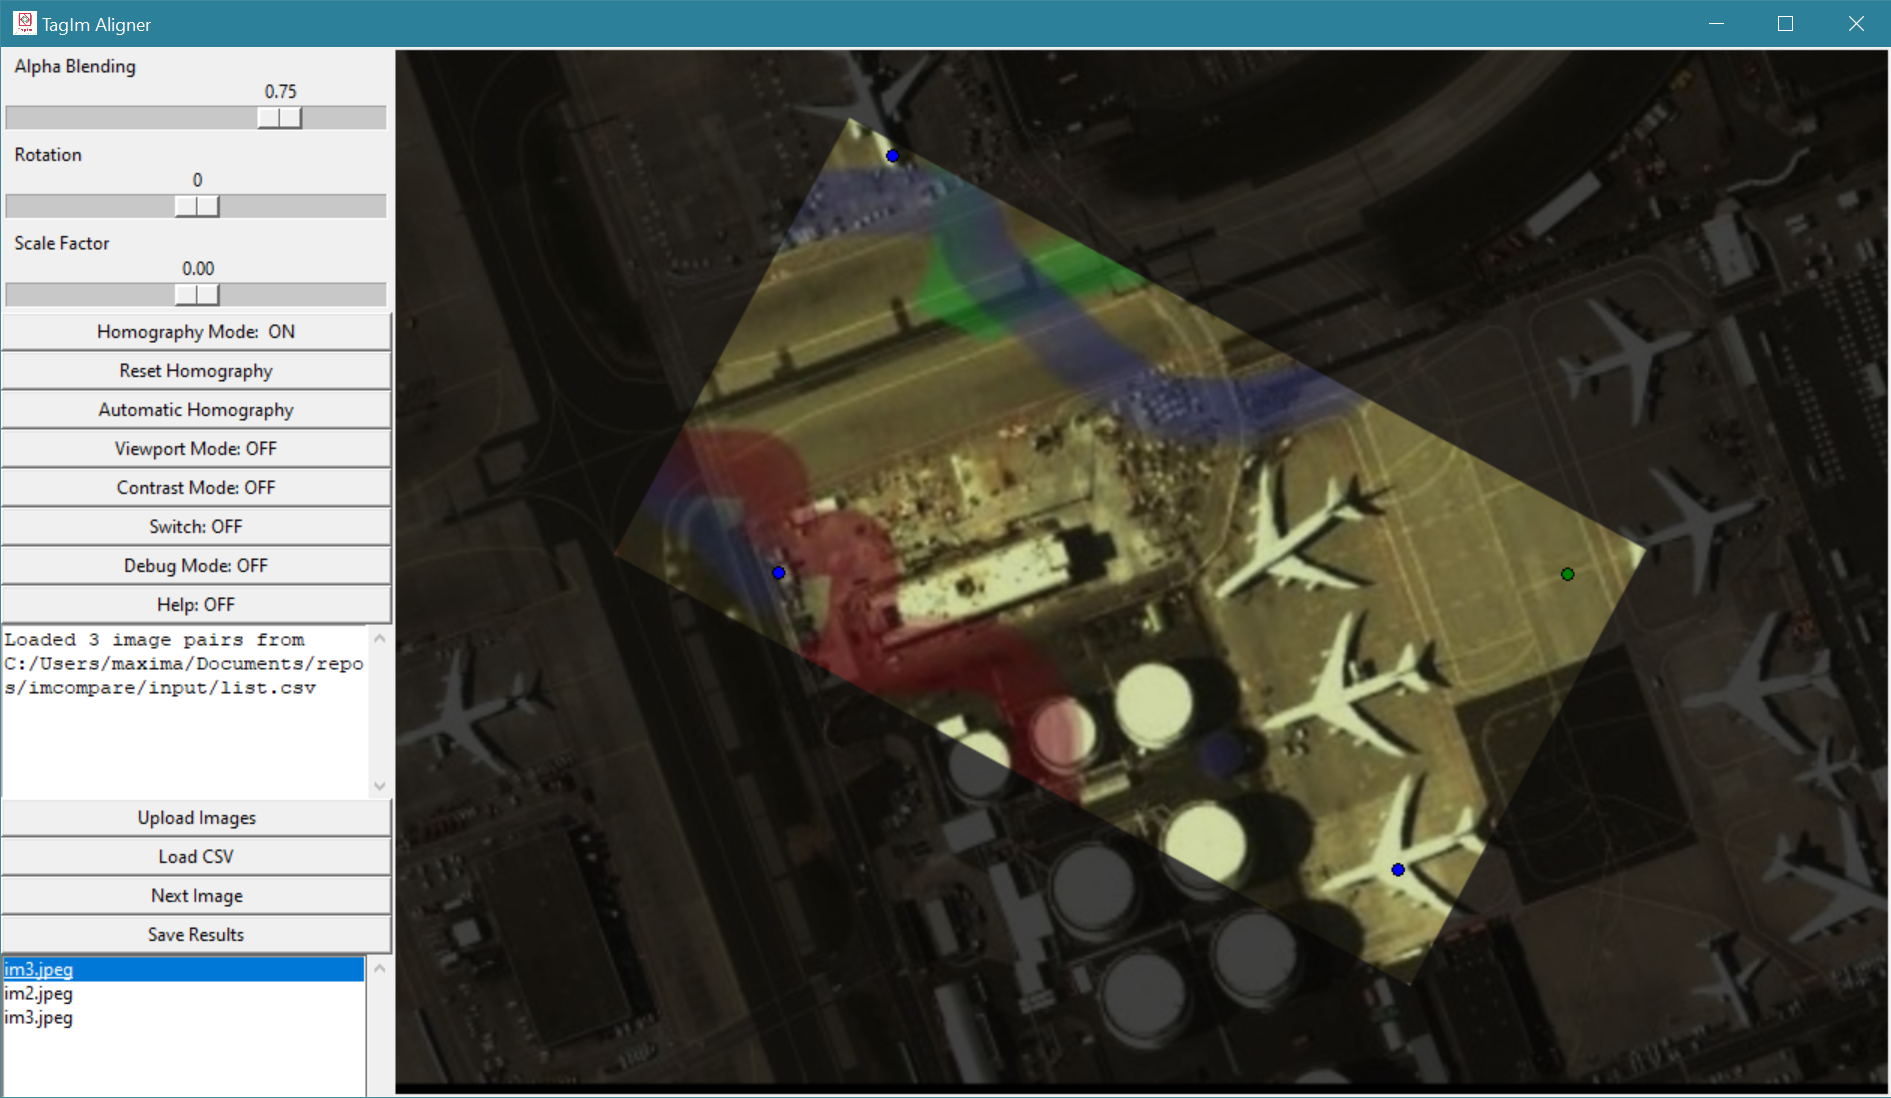
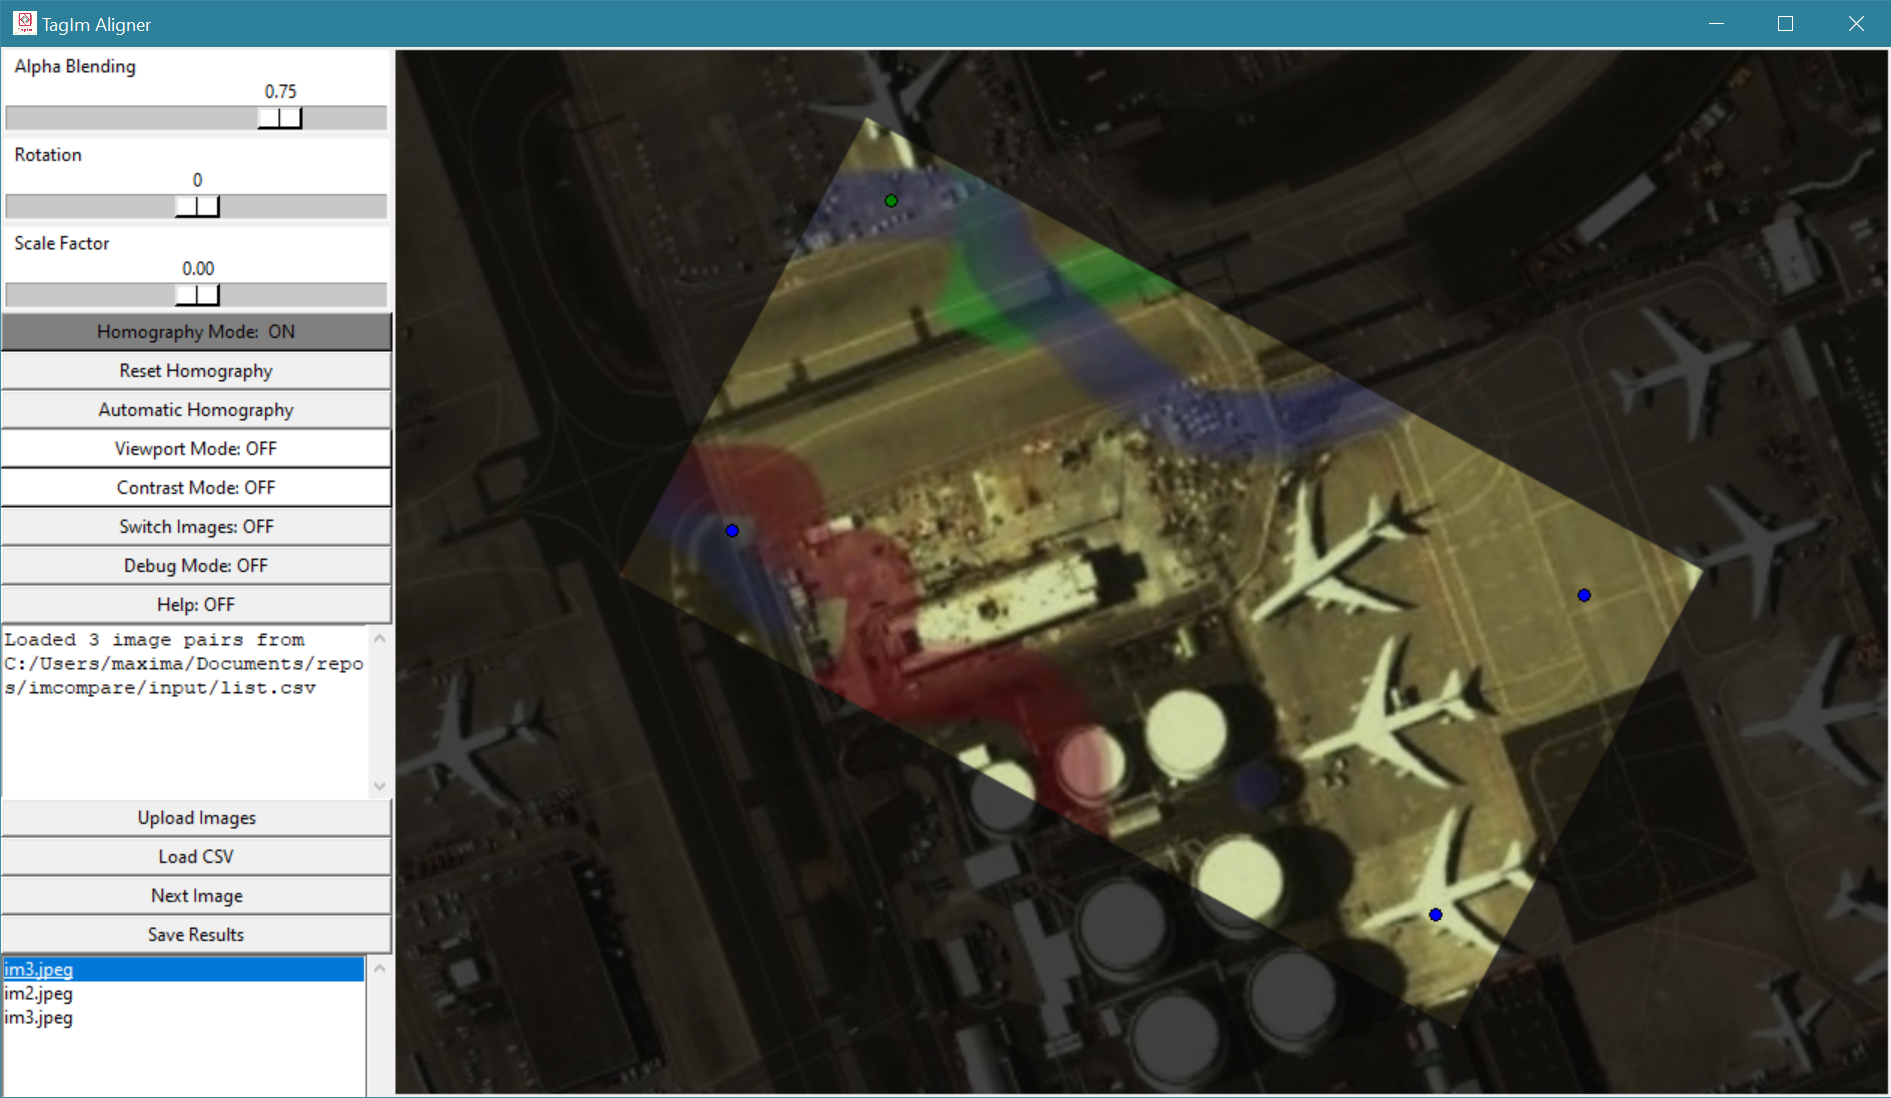
more fixes

diff --git a/main.py b/main.py
@@ -241,8 +241,9 @@ class DebugInfo:
         
         # Display all global variables
         app_vars = vars(self.app)
-        for var_name, var_value in app_vars.items():
-            if isinstance(var_value,np.ndarray):
+        image_vars = vars(self.app.images)
+        for var_name, var_value in {**app_vars, **image_vars}.items():
+            if isinstance(var_value,np.ndarray) or var_value == self.app.images:
                 continue
             label = tk.Label(self.debug_frame, text=f"{var_name}: {var_value}", bg='grey')
             label.pack(side="top", anchor="w", padx=10, pady=5)
@@ -259,13 +260,13 @@ class ButtonPanel:
         self.image_pairs = []
 
     def create_widgets(self):
-        self.alpha_slider = tk.Scale(self.frame, from_=0, to=1, resolution=0.01, orient=tk.HORIZONTAL, label="Alpha Blending", command=self.app.update_alpha)
+        self.alpha_slider = tk.Scale(self.frame, from_=0, to=1, resolution=0.01, orient=tk.HORIZONTAL, label="Alpha Blending", command=self.app.update_alpha,bg='white')
         self.alpha_slider.set(self.app.alpha)
         
-        self.rotation_slider = tk.Scale(self.frame, from_=-180, to=180, resolution=1, orient=tk.HORIZONTAL, label="Rotation", command=self.app.update_rotation)
+        self.rotation_slider = tk.Scale(self.frame, from_=-180, to=180, resolution=1, orient=tk.HORIZONTAL, label="Rotation", command=self.app.update_rotation,bg='white')
         self.rotation_slider.set(self.app.images.rotation)
 
-        self.scale_slider = tk.Scale(self.frame, from_=-1, to=1, resolution=0.01, orient=tk.HORIZONTAL, label="Scale Factor", command=lambda x: self.app.update_scale(np.power(10,float(x))))
+        self.scale_slider = tk.Scale(self.frame, from_=-1, to=1, resolution=0.01, orient=tk.HORIZONTAL, label="Scale Factor", command=lambda x: self.app.update_scale(np.power(10,float(x))),bg='white')
         self.scale_slider.set(np.log10(self.app.images.scale))
 
         self.homography_button = tk.Button(self.frame, text="Homography Mode: OFF", command=self.app.toggle_homography_mode)
@@ -273,7 +274,7 @@ class ButtonPanel:
         self.homography_calculate_button = tk.Button(self.frame, text="Automatic Homography", command=self.app.run_matching)
         self.viewport_button = tk.Button(self.frame, text="Viewport Mode: OFF", command=self.app.toggle_viewport_mode)
         self.contrast_button = tk.Button(self.frame, text="Contrast Mode: OFF", command=self.app.toggle_contrast_mode)
-        self.switch_button = tk.Button(self.frame, text="Switch: OFF", command=self.app.toggle_switch)
+        self.switch_button = tk.Button(self.frame, text="Switch Images: OFF", command=self.app.toggle_switch)
         self.debug_button = tk.Button(self.frame, text="Debug Mode: OFF", command=self.app.toggle_debug_mode)
         self.help_button = tk.Button(self.frame, text="Help: OFF", command=self.app.toggle_help_mode)
         self.help_frame = tk.Frame(self.frame)
@@ -488,14 +489,10 @@ class ImageAlignerApp:
         self.images.scale = np.clip(float(val),0.1,10)
         self.button_panel.scale_slider.set(np.log10(self.images.scale))
         self.render()
-
-    def toggle_debug_mode(self):
-        self.debug_mode = not self.debug_mode
-        self.button_panel.debug_button.config(text="Debug Mode:  ON" if self.debug_mode else "Debug Mode: OFF")
         
     def toggle_help_mode(self):
         self.help_mode = not self.help_mode
-        self.button_panel.help_button.config(text="Help:  ON" if self.help_mode else "Help: OFF")
+        self.button_panel.help_button.config(text="Help:  ON" if self.help_mode else "Help: OFF", bg=('grey' if self.help_mode else 'white'))
         descriptions = [('r', "Rotate by 90 degrees"),
                         ('+', "Zoom in 10%"),
                         ('-', "Zoom out 10%"),
@@ -519,17 +516,17 @@ class ImageAlignerApp:
         self.homography_mode = not self.homography_mode
         if len(self.images.anchors) == 0:
             self.images.reset_anchors()
-        self.button_panel.homography_button.config(text="Homography Mode:  ON" if self.homography_mode else "Homography Mode: OFF")
+        self.button_panel.homography_button.config(text="Homography Mode:  ON" if self.homography_mode else "Homography Mode: OFF", bg=('grey' if self.homography_mode else 'white'))
         self.render()
 
     def toggle_contrast_mode(self):
         self.contrast_mode = not self.contrast_mode
-        self.button_panel.contrast_button.config(text="Contrast Mode:  ON" if self.contrast_mode else "Contrast Mode: OFF")
+        self.button_panel.contrast_button.config(text="Contrast Mode:  ON" if self.contrast_mode else "Contrast Mode: OFF", bg=('grey' if self.contrast_mode else 'white'))
         self.render()
 
     def toggle_switch(self):
         self.toggle = not self.toggle
-        self.button_panel.switch_button.config(text="Switch:  ON" if self.toggle else "Switch: OFF")
+        self.button_panel.switch_button.config(text="Switch Images:  ON" if self.toggle else "Switch Images: OFF", bg=('grey' if self.toggle else 'white'))
         self.render()
 
     def reset_homography(self):
@@ -545,7 +542,13 @@ class ImageAlignerApp:
 
     def toggle_viewport_mode(self):
         self.viewport_mode = not self.viewport_mode
-        self.button_panel.viewport_button.config(text="Viewport Mode:  ON" if self.viewport_mode else "Viewport Mode: OFF")
+        self.button_panel.viewport_button.config(text="Viewport Mode:  ON" if self.viewport_mode else "Viewport Mode: OFF", bg=('grey' if self.viewport_mode else 'white'))
+        self.render()
+        
+    def toggle_debug_mode(self):
+        self.debug_mode = not self.debug_mode
+        self.button_panel.debug_button.config(text="Debug Mode:  ON" if self.debug_mode else "Debug Mode: OFF", bg=('grey' if self.debug_mode else 'white'))
+        self.render()
     
     def on_key_press(self, event):
         if event.char == 'r':
